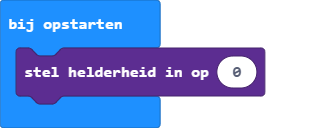
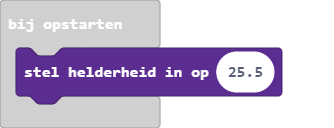
main.blocks, main.ts bijwerken

diff --git a/main.ts b/main.ts
@@ -4,7 +4,7 @@ input.onButtonPressed(Button.A, function () {
 input.onButtonPressed(Button.B, function () {
     led.setBrightness(led.brightness() + 25.5)
 })
-led.setBrightness(0)
+led.setBrightness(25.5)
 basic.forever(function () {
     if (input.temperature() == -5) {
         basic.showLeds(`
